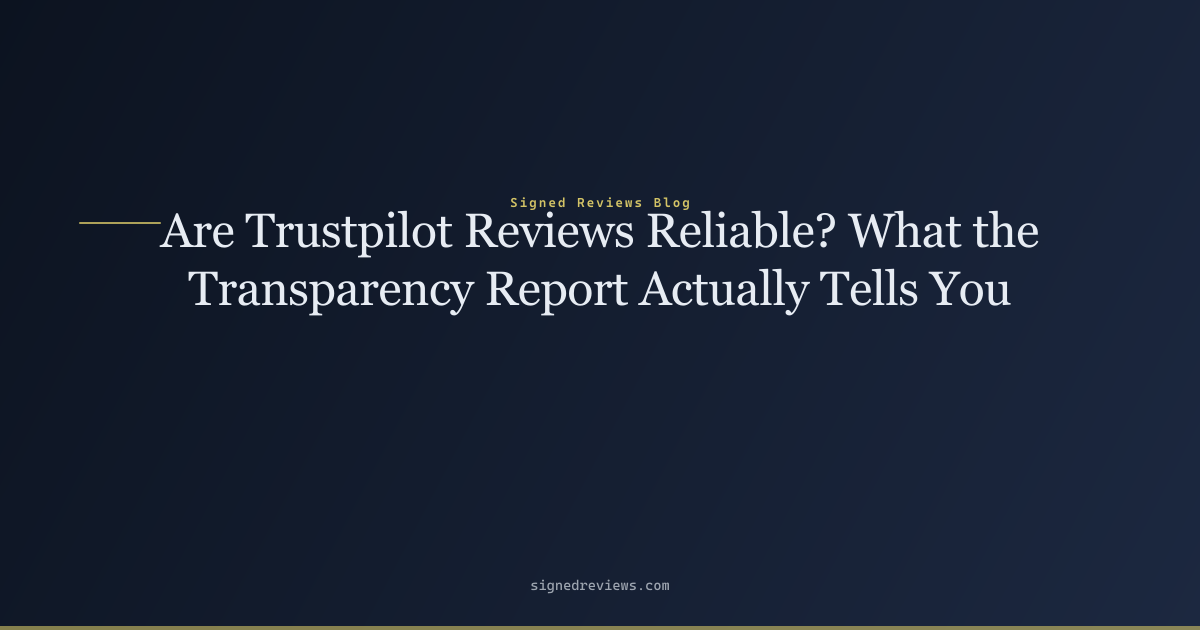
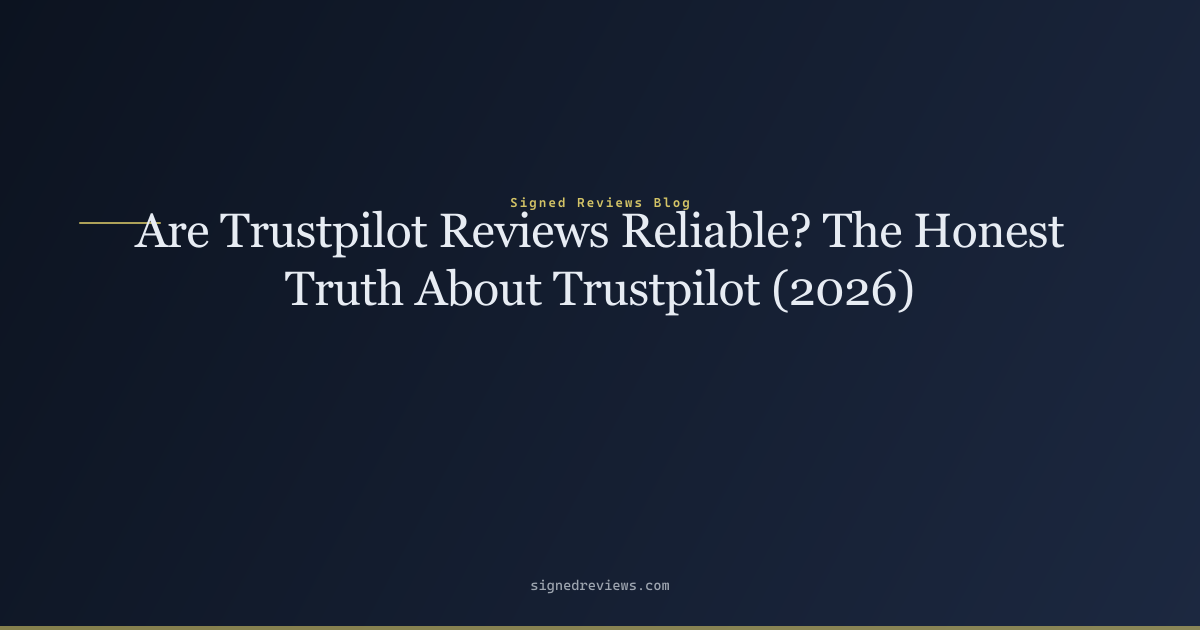
@ SEO: comprehensive rewrite targeting "are trustpilot reviews reliable" (720/mo)
- Title: exact keyword + "The Honest Truth About Trustpilot (2026)"
- Meta description: 150 chars, leads with keyword
- Answer-first intro: directly answers query in first two sentences
- Added H2: "What Reddit Users Say: Are Trustpilot Reviews Reliable?" (addresses Reddit competitor intent)
- Added H2: "Common Signs of Fake Trustpilot Reviews" (5 telltale patterns)
- Renamed H2s: "How Trustpilot Verifies Reviews (And Where It Falls Short)", "Trustpilot vs. Stripe-Verified Reviews"
- Added FAQ section with 5 Q&As + FAQPage JSON-LD schema
- Keyword appears in title, meta, H2, intro, signs section, Reddit section
- Internal links to /how-it-works/, /learn/, /blog/ related posts

@

Changed region(s): [[0.0925, 0.3317, 0.8942, 0.5127]]

diff --git a/blog/are-trustpilot-reviews-reliable/index.html b/blog/are-trustpilot-reviews-reliable/index.html
@@ -3,21 +3,21 @@
 <head>
   <meta charset="UTF-8">
   <meta name="viewport" content="width=device-width, initial-scale=1.0">
-  <title>Are Trustpilot Reviews Reliable? What the Transparency Report Actually Tells You — Signed Reviews Blog</title>
-  <meta name="description" content="An honest look at Trustpilot's reliability — what the Transparency Report data reveals, how the open-platform model creates fake-review exposure, and how to tel">
+  <title>Are Trustpilot Reviews Reliable? The Honest Truth About Trustpilot (2026) — Signed Reviews Blog</title>
+  <meta name="description" content="Are Trustpilot reviews reliable? We break down how Trustpilot verifies reviews, where fake reviews slip through, what Reddit users say, and a more trustworthy S">
   <link rel="canonical" href="https://signedreviews.com/blog/are-trustpilot-reviews-reliable/">
   <meta name="robots" content="index, follow">
   <meta name="theme-color" content="#0c1320">
 
   <meta property="og:type" content="article">
-  <meta property="og:title" content="Are Trustpilot Reviews Reliable? What the Transparency Report Actually Tells You — Signed Reviews Blog">
-  <meta property="og:description" content="An honest look at Trustpilot's reliability — what the Transparency Report data reveals, how the open-platform model creates fake-review exposure, and how to tel">
+  <meta property="og:title" content="Are Trustpilot Reviews Reliable? The Honest Truth About Trustpilot (2026) — Signed Reviews Blog">
+  <meta property="og:description" content="Are Trustpilot reviews reliable? We break down how Trustpilot verifies reviews, where fake reviews slip through, what Reddit users say, and a more trustworthy S">
   <meta property="og:url" content="https://signedreviews.com/blog/are-trustpilot-reviews-reliable/">
   <meta property="og:site_name" content="Signed Reviews">
   <meta property="og:image" content="https://signedreviews.com/images/og/are-trustpilot-reviews-reliable.png">
   <meta name="twitter:card" content="summary_large_image">
-  <meta name="twitter:title" content="Are Trustpilot Reviews Reliable? What the Transparency Report Actually Tells You — Signed Reviews Blog">
-  <meta name="twitter:description" content="An honest look at Trustpilot's reliability — what the Transparency Report data reveals, how the open-platform model creates fake-review exposure, and how to tel">
+  <meta name="twitter:title" content="Are Trustpilot Reviews Reliable? The Honest Truth About Trustpilot (2026) — Signed Reviews Blog">
+  <meta name="twitter:description" content="Are Trustpilot reviews reliable? We break down how Trustpilot verifies reviews, where fake reviews slip through, what Reddit users say, and a more trustworthy S">
   <meta name="twitter:image" content="https://signedreviews.com/images/og/are-trustpilot-reviews-reliable.png">
 
   <link rel="icon" type="image/png" sizes="32x32" href="/images/SignedReviews_logo_only.png?v=20260729a">
@@ -524,9 +524,9 @@ main { padding: 0; }
     })();
   </script>
   <script type="application/ld+json">{"@context":"https://schema.org","@type":"Organization","name":"Signed Reviews","legalName":"Paid Rightly LLC","url":"https://signedreviews.com","logo":"https://signedreviews.com/images/SignedReviews_logo_only.png","description":"Signed Reviews is a SaaS platform that helps businesses collect verified, tamper-evident customer reviews by linking each review to a completed Stripe transaction.","email":"support@signedreviews.com","address":{"@type":"PostalAddress","streetAddress":"1209 Mountain Road Pl NE, Ste N","addressLocality":"Albuquerque","addressRegion":"NM","postalCode":"87110","addressCountry":"US"}}</script>
-  <script type="application/ld+json">{"@context":"https://schema.org","@type":"BreadcrumbList","itemListElement":[{"@type":"ListItem","position":1,"name":"Home","item":"https://signedreviews.com/"},{"@type":"ListItem","position":2,"name":"Blog","item":"https://signedreviews.com/blog/"},{"@type":"ListItem","position":3,"name":"Are Trustpilot Reviews Reliable? What the Transparency Report Actually Tells You","item":"https://signedreviews.com/blog/are-trustpilot-reviews-reliable/"}]}</script>
+  <script type="application/ld+json">{"@context":"https://schema.org","@type":"BreadcrumbList","itemListElement":[{"@type":"ListItem","position":1,"name":"Home","item":"https://signedreviews.com/"},{"@type":"ListItem","position":2,"name":"Blog","item":"https://signedreviews.com/blog/"},{"@type":"ListItem","position":3,"name":"Are Trustpilot Reviews Reliable? The Honest Truth About Trustpilot (2026)","item":"https://signedreviews.com/blog/are-trustpilot-reviews-reliable/"}]}</script>
 
-  <script type="application/ld+json">{"@context":"https://schema.org","@type":"BlogPosting","headline":"Are Trustpilot Reviews Reliable? What the Transparency Report Actually Tells You","description":"An honest look at Trustpilot's reliability — what the Transparency Report data reveals, how the open-platform model creates fake-review exposure, and how to tel","datePublished":"2026-07-24","dateModified":"2026-07-24","mainEntityOfPage":{"@type":"WebPage","@id":"https://signedreviews.com/blog/are-trustpilot-reviews-reliable/"},"image":["https://signedreviews.com/images/og/are-trustpilot-reviews-reliable.png"],"author":{"@type":"Organization","name":"Signed Reviews","url":"https://signedreviews.com"},"publisher":{"@type":"Organization","name":"Signed Reviews","logo":{"@type":"ImageObject","url":"https://signedreviews.com/images/SignedReviews_logo_only.png"}}}</script>
+  <script type="application/ld+json">{"@context":"https://schema.org","@type":"BlogPosting","headline":"Are Trustpilot Reviews Reliable? The Honest Truth About Trustpilot (2026)","description":"Are Trustpilot reviews reliable? We break down how Trustpilot verifies reviews, where fake reviews slip through, what Reddit users say, and a more trustworthy S","datePublished":"2026-07-24","dateModified":"2026-07-24","mainEntityOfPage":{"@type":"WebPage","@id":"https://signedreviews.com/blog/are-trustpilot-reviews-reliable/"},"image":["https://signedreviews.com/images/og/are-trustpilot-reviews-reliable.png"],"author":{"@type":"Organization","name":"Signed Reviews","url":"https://signedreviews.com"},"publisher":{"@type":"Organization","name":"Signed Reviews","logo":{"@type":"ImageObject","url":"https://signedreviews.com/images/SignedReviews_logo_only.png"}}}</script>
 </head>
 <body>
   <a class="skip-link" href="#main">Skip to main content</a>
@@ -567,23 +567,23 @@ main { padding: 0; }
     <section class="page-hero">
       <div class="page-hero-inner">
         <span class="eyebrow">Blog</span>
-        <h1>Are Trustpilot Reviews Reliable? What the Transparency Report Actually Tells You</h1>
-        <p>An honest look at Trustpilot's reliability — what the Transparency Report data reveals, how the open-platform model creates fake-review exposure, and how to tel</p>
+        <h1>Are Trustpilot Reviews Reliable? The Honest Truth About Trustpilot (2026)</h1>
+        <p>Are Trustpilot reviews reliable? We break down how Trustpilot verifies reviews, where fake reviews slip through, what Reddit users say, and a more trustworthy S</p>
       </div>
     </section>
     <div class="prose-wrap">
       <article class="prose" style="max-width: var(--max-prose)">
       <p class="post-meta" style="color:var(--muted);font-size:.9rem;margin-bottom:1.5rem;">2026-07-24</p>
       
-<p><strong>Published:</strong> 2026-07-24 · <strong>Author:</strong> Signed Reviews Team · <strong>Description:</strong> An honest look at Trustpilot&#39;s reliability — what the Transparency Report data reveals, how the open-platform model creates fake-review exposure, and how to tell which reviews you can trust.**</p>
+<p><strong>Published:</strong> 2026-07-24 · <strong>Author:</strong> Signed Reviews Team · <strong>Description:</strong> Are Trustpilot reviews reliable? We break down how Trustpilot verifies reviews, where fake reviews slip through, what Reddit users say, and a more trustworthy Stripe-verified alternative.</p>
 <hr>
-<p>Trustpilot removed <strong>4.5 million fake reviews in 2024</strong> — 7.4% of all reviews submitted to the platform that year. That&#39;s the headline number from Trustpilot&#39;s own Transparency Report. It&#39;s both impressive and alarming: impressive that Trustpilot catches that many, alarming that the platform attracts that volume of fake content in the first place.</p>
-<p>This article answers the question honestly — not with marketing language, but by walking through how Trustpilot&#39;s verification model actually works, what the data shows, and where the risks sit.</p>
+<p>Are Trustpilot reviews reliable? The honest answer: <strong>Trustpilot reviews are moderately reliable in aggregate, but any individual review could be fake.</strong> The platform&#39;s &quot;Verified&quot; badge doesn&#39;t mean the reviewer purchased anything — it means the business sent them an invitation. And Trustpilot&#39;s own Transparency Report confirms the scale of the problem: <strong>4.5 million fake reviews removed in 2024</strong> — 7.4% of all submissions.</p>
+<p>That means roughly 1 in 13 reviews submitted to Trustpilot is fake. Here&#39;s exactly how Trustpilot&#39;s verification works, where fake reviews still slip through, what Reddit users say about the platform, and how Stripe-verified reviews offer a structurally different alternative.</p>
 <hr>
 <h2 id="the-short-answer"><a class="anchor" href="#the-short-answer" aria-label="Permalink to The short answer">#</a> The short answer</h2>
 <p>Trustpilot reviews are <strong>directionally useful but individually uncertain.</strong> The platform&#39;s scale (361 million reviews) means aggregate scores tend to be statistically meaningful for businesses with large review volumes. But the open-platform model — anyone can review any business without proving they purchased anything — means <strong>any individual review could be fake, and &quot;Verified&quot; doesn&#39;t independently confirm a payment happened.</strong></p>
 <hr>
-<h2 id="how-trustpilot39s-model-works-and-doesn39t"><a class="anchor" href="#how-trustpilot39s-model-works-and-doesn39t" aria-label="Permalink to How Trustpilot&amp;#39;s model works (and doesn&amp;#39;t)">#</a> How Trustpilot&#39;s model works (and doesn&#39;t)</h2>
+<h2 id="how-trustpilot-verifies-reviews-and-where-it-falls-short"><a class="anchor" href="#how-trustpilot-verifies-reviews-and-where-it-falls-short" aria-label="Permalink to How Trustpilot Verifies Reviews (And Where It Falls Short)">#</a> How Trustpilot Verifies Reviews (And Where It Falls Short)</h2>
 <p>Trustpilot is an <strong>open review platform.</strong> That means:</p>
 <ul>
 <li><strong>Anyone can review any business</strong> — no proof of purchase required.</li>
@@ -634,6 +634,28 @@ main { padding: 0; }
 <p>This gap — between what consumers think &quot;Verified&quot; means and what it actually means on Trustpilot — is the central reliability problem. It&#39;s not that Trustpilot is dishonest about its definitions (they publish them clearly). It&#39;s that <strong>the word &quot;Verified&quot; carries a payment-confirmation connotation that Trustpilot&#39;s definition doesn&#39;t fulfill.</strong></p>
 <p>For the full breakdown of what &quot;Verified&quot; means on every major platform: <a href="/learn/what-does-verified-buyer-mean/">What Does &quot;Verified Buyer&quot; Actually Mean?</a></p>
 <hr>
+<h2 id="common-signs-of-fake-trustpilot-reviews"><a class="anchor" href="#common-signs-of-fake-trustpilot-reviews" aria-label="Permalink to Common Signs of Fake Trustpilot Reviews">#</a> Common Signs of Fake Trustpilot Reviews</h2>
+<p>Not all fake reviews are obvious, but most share telltale patterns. When you&#39;re asking &quot;are Trustpilot reviews reliable&quot; for a specific business, here&#39;s what to look for:</p>
+<ul>
+<li><strong>Generic, copy-paste language.</strong> Fake reviews rarely mention specific products, interactions, or timeframes. &quot;Great service, highly recommend&quot; with no detail is a red flag — real customers talk about what they bought and how they used it.</li>
+<li><strong>Review velocity spikes.</strong> A business that suddenly gets 50 five-star reviews in a week after months of silence is either running a campaign or buying reviews. Trustpilot&#39;s automated systems flag these, but some get through.</li>
+<li><strong>Profile patterns.</strong> Click through to reviewer profiles. Accounts created the same day they left the review, with only one review ever posted, are suspicious. So are multiple reviewers with similar names or writing styles.</li>
+<li><strong>Overly defensive business responses.</strong> Genuine businesses respond to negative reviews with offers to make things right. Businesses buying fake positive reviews often respond to real negative ones with hostility — because the negative review threatens the artificial rating they&#39;ve constructed.</li>
+<li><strong>Suspicious star distribution.</strong> A natural review profile has a J-shaped curve — mostly 5s and 4s, some 1s, fewer 2s and 3s. A business with exclusively 5-star and 1-star reviews (and nothing in between) often has fake positives mixed with real complaints.</li>
+</ul>
+<p>These signs don&#39;t prove a review is fake, but they&#39;re strong indicators. <a href="/blog/how-to-spot-fake-reviews/">Read our full guide to spotting fake reviews →</a></p>
+<hr>
+<h2 id="what-reddit-users-say-are-trustpilot-reviews-reliable"><a class="anchor" href="#what-reddit-users-say-are-trustpilot-reviews-reliable" aria-label="Permalink to What Reddit Users Say: Are Trustpilot Reviews Reliable?">#</a> What Reddit Users Say: Are Trustpilot Reviews Reliable?</h2>
+<p>Reddit is one of the top destinations for people asking &quot;are Trustpilot reviews reliable?&quot; — and the answers are consistently skeptical. Across r/smallbusiness, r/ecommerce, r/shopify, and r/entrepreneur, the dominant sentiment is that Trustpilot&#39;s open model makes individual reviews hard to trust.</p>
+<p><strong>Common Reddit themes about Trustpilot reliability:</strong></p>
+<ul>
+<li><strong>&quot;Verified ≠ real purchase.&quot;</strong> This is the most recurring observation on Reddit. Users regularly point out that Trustpilot&#39;s &quot;Verified&quot; tag only means the business invited the reviewer — not that a transaction occurred. One widely upvoted comment in r/ecommerce: &quot;Trustpilot verified just means the company has your email address.&quot;</li>
+<li><strong>&quot;Businesses pay Trustpilot to manage reviews, so there&#39;s a conflict of interest.&quot;</strong> Reddit users frequently note that Trustpilot&#39;s paid plans let businesses flag, respond to, and influence the visibility of reviews. The business is Trustpilot&#39;s customer — not the reviewer.</li>
+<li><strong>&quot;Fake positive reviews are rampant.&quot;</strong> Users in r/smallbusiness and r/shopify regularly share stories of competitors being flooded with fake 5-star reviews, or discovering that their own negative reviews were suspiciously outnumbered by vague positives.</li>
+<li><strong>&quot;It&#39;s useful for patterns, not individual reviews.&quot;</strong> The most balanced Reddit takes acknowledge that Trustpilot&#39;s aggregate scores are useful for high-volume businesses, but warn against trusting any single review at face value.</li>
+</ul>
+<p>The Reddit consensus mirrors the data: Trustpilot is a directional signal, not a definitive one. If you&#39;re researching a business, read the mid-range reviews (3-star), cross-reference with Google Reviews, and never rely on Trustpilot alone.</p>
+<hr>
 <h2 id="what-trustpilot-does-well"><a class="anchor" href="#what-trustpilot-does-well" aria-label="Permalink to What Trustpilot does well">#</a> What Trustpilot does well</h2>
 <p>To be fair: Trustpilot invests heavily in fake-review detection. Their automated systems scan for patterns (review velocity spikes, IP clustering, text similarity), their Content Integrity team investigates flagged content, and their Transparency Report is more detailed than any competitor&#39;s equivalent. The platform also allows businesses to respond publicly to reviews and flag ones that violate guidelines.</p>
 <p>For large businesses with thousands of reviews, Trustpilot&#39;s aggregate scores are probably directionally accurate — the statistical weight of volume drowns out individual fakes. The problem is at the individual-review level and for small businesses, where a handful of fake reviews can swing a star rating dramatically.</p>
@@ -648,10 +670,71 @@ main { padding: 0; }
 <li><strong>Cross-reference.</strong> Look at Google Reviews, the Better Business Bureau, and industry-specific forums. No single platform tells the whole story.</li>
 </ol>
 <hr>
-<h2 id="the-safer-alternative-processor-attested-reviews"><a class="anchor" href="#the-safer-alternative-processor-attested-reviews" aria-label="Permalink to The safer alternative: processor-attested reviews">#</a> The safer alternative: processor-attested reviews</h2>
+<h2 id="trustpilot-vs-stripe-verified-reviews-the-safer-alternative"><a class="anchor" href="#trustpilot-vs-stripe-verified-reviews-the-safer-alternative" aria-label="Permalink to Trustpilot vs. Stripe-Verified Reviews: The Safer Alternative">#</a> Trustpilot vs. Stripe-Verified Reviews: The Safer Alternative</h2>
 <p>The reliability problem isn&#39;t unique to Trustpilot — it&#39;s inherent to <strong>any open platform where the reviewer doesn&#39;t have to prove a purchase.</strong> The only way to structurally guarantee that a review comes from a real customer is to verify against something the merchant cannot control: an independent payment processor.</p>
 <p><strong>Processor-attested verification</strong> (Level 4 on the <a href="/learn/what-does-verified-buyer-mean/">verification spectrum</a>) ties every review to a confirmed Stripe charge. The payment processor — a neutral third party — confirms the charge occurred and whether it was refunded. The merchant cannot game this without faking a real Stripe transaction, which costs real Stripe fees and risks account termination. And refunded charges automatically hide their associated reviews.</p>
 <p>This model doesn&#39;t eliminate the possibility of biased or inaccurate reviews — a real customer can still write something misleading. But it <strong>eliminates fake reviews from non-customers entirely,</strong> because there&#39;s no path to write a review without a confirmed payment.</p>
+<hr>
+<h2 id="frequently-asked-questions"><a class="anchor" href="#frequently-asked-questions" aria-label="Permalink to Frequently Asked Questions">#</a> Frequently Asked Questions</h2>
+<h3 id="can-companies-fake-trustpilot-reviews"><a class="anchor" href="#can-companies-fake-trustpilot-reviews" aria-label="Permalink to Can companies fake Trustpilot reviews?">#</a> Can companies fake Trustpilot reviews?</h3>
+<p>Yes. Because Trustpilot is an open platform, anyone can leave a review without proving they purchased anything. Businesses can (and do) pay for fake positive reviews, and competitors can leave fake negative reviews. Trustpilot&#39;s automated detection catches most — 4.5 million in 2024 — but some inevitably get through. The platform&#39;s &quot;Verified&quot; badge doesn&#39;t prevent fake reviews; it only indicates the business invited the reviewer via email.</p>
+<h3 id="does-trustpilot-remove-negative-reviews"><a class="anchor" href="#does-trustpilot-remove-negative-reviews" aria-label="Permalink to Does Trustpilot remove negative reviews?">#</a> Does Trustpilot remove negative reviews?</h3>
+<p>Trustpilot removes reviews that violate its content guidelines — including hate speech, conflicts of interest, and factually false claims — but it does <strong>not</strong> remove reviews simply because they&#39;re negative. Businesses on paid plans can flag reviews for Trustpilot to investigate, and they can respond publicly. However, businesses cannot unilaterally delete negative reviews from the platform. If a review is flagged and found to violate guidelines, Trustpilot removes it; otherwise it stays.</p>
+<h3 id="how-does-trustpilot-detect-fake-reviews"><a class="anchor" href="#how-does-trustpilot-detect-fake-reviews" aria-label="Permalink to How does Trustpilot detect fake reviews?">#</a> How does Trustpilot detect fake reviews?</h3>
+<p>Trustpilot uses a combination of automated systems and human review. The automated layer scans for patterns: review velocity spikes, IP address clustering (multiple reviews from the same location), text similarity across accounts, and reviewer account history. Reviews flagged by the system go to Trustpilot&#39;s Content Integrity team for investigation. In 2024, roughly 80% of fake reviews were caught by automated systems before publication.</p>
+<h3 id="is-trustpilot-better-than-google-reviews"><a class="anchor" href="#is-trustpilot-better-than-google-reviews" aria-label="Permalink to Is Trustpilot better than Google Reviews?">#</a> Is Trustpilot better than Google Reviews?</h3>
+<p>It depends on what you need. Google Reviews has wider reach and integrates with Google Maps and Search, making it more visible, but its verification is even weaker — Google requires no proof of purchase and has minimal fake-review detection. Trustpilot has stronger detection and more detailed review content, but its consumer reach is smaller. For businesses, the best strategy is to collect verified reviews (with actual purchase proof) that can be displayed across both platforms.</p>
+<h3 id="what39s-the-most-reliable-alternative-to-trustpilot"><a class="anchor" href="#what39s-the-most-reliable-alternative-to-trustpilot" aria-label="Permalink to What&amp;#39;s the most reliable alternative to Trustpilot?">#</a> What&#39;s the most reliable alternative to Trustpilot?</h3>
+<p>The most reliable alternative is a review platform that uses <strong>processor-attested verification</strong> — where an independent payment processor (like Stripe) confirms that a transaction actually occurred. Unlike Trustpilot&#39;s invited-review model, processor-attested reviews eliminate fake reviews structurally: no purchase, no invitation, no review. <a href="/how-it-works/">Signed Reviews connects to your Stripe account</a> with read-only OAuth and automatically verifies every review against a real charge. Refunded charges automatically hide their reviews. It&#39;s the difference between detecting fakes and making them impossible.</p>
+<script type="application/ld+json">
+{
+  "@context": "https://schema.org",
+  "@type": "FAQPage",
+  "mainEntity": [
+    {
+      "@type": "Question",
+      "name": "Can companies fake Trustpilot reviews?",
+      "acceptedAnswer": {
+        "@type": "Answer",
+        "text": "Yes. Because Trustpilot is an open platform, anyone can leave a review without proving they purchased anything. Businesses can pay for fake positive reviews, and competitors can leave fake negative reviews. Trustpilot's automated detection caught 4.5 million fake reviews in 2024, but some inevitably get through. The Verified badge only means the business invited the reviewer via email — not that a purchase occurred."
+      }
+    },
+    {
+      "@type": "Question",
+      "name": "Does Trustpilot remove negative reviews?",
+      "acceptedAnswer": {
+        "@type": "Answer",
+        "text": "Trustpilot removes reviews that violate its content guidelines (hate speech, conflicts of interest, false claims) but does not remove reviews simply because they are negative. Businesses on paid plans can flag reviews for investigation and respond publicly, but they cannot unilaterally delete negative reviews."
+      }
+    },
+    {
+      "@type": "Question",
+      "name": "How does Trustpilot detect fake reviews?",
+      "acceptedAnswer": {
+        "@type": "Answer",
+        "text": "Trustpilot uses automated systems and human review. The automated layer scans for review velocity spikes, IP clustering, text similarity, and reviewer account history. Flagged reviews go to the Content Integrity team. In 2024, about 80% of fake reviews were caught by automated systems before publication."
+      }
+    },
+    {
+      "@type": "Question",
+      "name": "Is Trustpilot better than Google Reviews?",
+      "acceptedAnswer": {
+        "@type": "Answer",
+        "text": "Google Reviews has wider reach via Maps and Search integration but weaker verification. Trustpilot has stronger fake-review detection and more detailed content but smaller consumer reach. The best approach for businesses is collecting verified reviews with purchase proof that display across both platforms."
+      }
+    },
+    {
+      "@type": "Question",
+      "name": "What is the most reliable alternative to Trustpilot?",
+      "acceptedAnswer": {
+        "@type": "Answer",
+        "text": "The most reliable alternative uses processor-attested verification — where a payment processor like Stripe independently confirms each transaction. Unlike Trustpilot's invited-review model, this eliminates fake reviews structurally: no purchase means no invitation and no review. Signed Reviews connects via read-only Stripe OAuth and verifies every review against a real charge, with automatic refund handling."
+      }
+    }
+  ]
+}
+</script>
+
 <hr>
 <h2 id="bottom-line"><a class="anchor" href="#bottom-line" aria-label="Permalink to Bottom line">#</a> Bottom line</h2>
 <p>Trustpilot reviews are reliable enough for aggregate trending — a business with 5,000 reviews and a 4.5 average is probably decent. But at the individual level, &quot;Verified&quot; on Trustpilot doesn&#39;t mean what most people think it means, and the platform&#39;s 7.4% fake-submission rate means roughly 1 in 13 submissions isn&#39;t from a real customer.</p>

diff --git a/blog/index.html b/blog/index.html
@@ -694,9 +694,9 @@ main { padding: 0; }
       <p style="margin:0;color:var(--text);font-size:.95rem;">The best review platforms for SaaS companies in 2026, ranked by verification method — not just features. Most &quot;best review platform&quot; lists rank aggregators, not</p>
     </div>
     <div style="margin-bottom:1.5rem;padding-bottom:1.5rem;border-bottom:1px solid var(--border);">
-      <h2 style="margin:0 0 .3rem;font-size:1.25rem;"><a href="/blog/are-trustpilot-reviews-reliable/" style="text-decoration:none;">Are Trustpilot Reviews Reliable? What the Transparency Report Actually Tells You</a></h2>
+      <h2 style="margin:0 0 .3rem;font-size:1.25rem;"><a href="/blog/are-trustpilot-reviews-reliable/" style="text-decoration:none;">Are Trustpilot Reviews Reliable? The Honest Truth About Trustpilot (2026)</a></h2>
       <p class="post-meta" style="color:var(--muted);font-size:.85rem;margin:0 0 .4rem;">2026-07-24</p>
-      <p style="margin:0;color:var(--text);font-size:.95rem;">An honest look at Trustpilot's reliability — what the Transparency Report data reveals, how the open-platform model creates fake-review exposure, and how to tel</p>
+      <p style="margin:0;color:var(--text);font-size:.95rem;">Are Trustpilot reviews reliable? We break down how Trustpilot verifies reviews, where fake reviews slip through, what Reddit users say, and a more trustworthy S</p>
     </div>
   </article>
     </div>

diff --git a/files/blog/are-trustpilot-reviews-reliable.md b/files/blog/are-trustpilot-reviews-reliable.md
@@ -1,12 +1,12 @@
-# Are Trustpilot Reviews Reliable? What the Transparency Report Actually Tells You
+# Are Trustpilot Reviews Reliable? The Honest Truth About Trustpilot (2026)
 
-**Published:** 2026-07-24 · **Author:** Signed Reviews Team · **Description:** An honest look at Trustpilot's reliability — what the Transparency Report data reveals, how the open-platform model creates fake-review exposure, and how to tell which reviews you can trust.**
+**Published:** 2026-07-24 · **Author:** Signed Reviews Team · **Description:** Are Trustpilot reviews reliable? We break down how Trustpilot verifies reviews, where fake reviews slip through, what Reddit users say, and a more trustworthy Stripe-verified alternative.
 
 ---
 
-Trustpilot removed **4.5 million fake reviews in 2024** — 7.4% of all reviews submitted to the platform that year. That's the headline number from Trustpilot's own Transparency Report. It's both impressive and alarming: impressive that Trustpilot catches that many, alarming that the platform attracts that volume of fake content in the first place.
+Are Trustpilot reviews reliable? The honest answer: **Trustpilot reviews are moderately reliable in aggregate, but any individual review could be fake.** The platform's "Verified" badge doesn't mean the reviewer purchased anything — it means the business sent them an invitation. And Trustpilot's own Transparency Report confirms the scale of the problem: **4.5 million fake reviews removed in 2024** — 7.4% of all submissions.
 
-This article answers the question honestly — not with marketing language, but by walking through how Trustpilot's verification model actually works, what the data shows, and where the risks sit.
+That means roughly 1 in 13 reviews submitted to Trustpilot is fake. Here's exactly how Trustpilot's verification works, where fake reviews still slip through, what Reddit users say about the platform, and how Stripe-verified reviews offer a structurally different alternative.
 
 ---
 
@@ -16,7 +16,7 @@ Trustpilot reviews are **directionally useful but individually uncertain.** The 
 
 ---
 
-## How Trustpilot's model works (and doesn't)
+## How Trustpilot Verifies Reviews (And Where It Falls Short)
 
 Trustpilot is an **open review platform.** That means:
 
@@ -56,6 +56,35 @@ For the full breakdown of what "Verified" means on every major platform: [What D
 
 ---
 
+## Common Signs of Fake Trustpilot Reviews
+
+Not all fake reviews are obvious, but most share telltale patterns. When you're asking "are Trustpilot reviews reliable" for a specific business, here's what to look for:
+
+- **Generic, copy-paste language.** Fake reviews rarely mention specific products, interactions, or timeframes. "Great service, highly recommend" with no detail is a red flag — real customers talk about what they bought and how they used it.
+- **Review velocity spikes.** A business that suddenly gets 50 five-star reviews in a week after months of silence is either running a campaign or buying reviews. Trustpilot's automated systems flag these, but some get through.
+- **Profile patterns.** Click through to reviewer profiles. Accounts created the same day they left the review, with only one review ever posted, are suspicious. So are multiple reviewers with similar names or writing styles.
+- **Overly defensive business responses.** Genuine businesses respond to negative reviews with offers to make things right. Businesses buying fake positive reviews often respond to real negative ones with hostility — because the negative review threatens the artificial rating they've constructed.
+- **Suspicious star distribution.** A natural review profile has a J-shaped curve — mostly 5s and 4s, some 1s, fewer 2s and 3s. A business with exclusively 5-star and 1-star reviews (and nothing in between) often has fake positives mixed with real complaints.
+
+These signs don't prove a review is fake, but they're strong indicators. [Read our full guide to spotting fake reviews →](/blog/how-to-spot-fake-reviews/)
+
+---
+
+## What Reddit Users Say: Are Trustpilot Reviews Reliable?
+
+Reddit is one of the top destinations for people asking "are Trustpilot reviews reliable?" — and the answers are consistently skeptical. Across r/smallbusiness, r/ecommerce, r/shopify, and r/entrepreneur, the dominant sentiment is that Trustpilot's open model makes individual reviews hard to trust.
+
+**Common Reddit themes about Trustpilot reliability:**
+
+- **"Verified ≠ real purchase."** This is the most recurring observation on Reddit. Users regularly point out that Trustpilot's "Verified" tag only means the business invited the reviewer — not that a transaction occurred. One widely upvoted comment in r/ecommerce: "Trustpilot verified just means the company has your email address."
+- **"Businesses pay Trustpilot to manage reviews, so there's a conflict of interest."** Reddit users frequently note that Trustpilot's paid plans let businesses flag, respond to, and influence the visibility of reviews. The business is Trustpilot's customer — not the reviewer.
+- **"Fake positive reviews are rampant."** Users in r/smallbusiness and r/shopify regularly share stories of competitors being flooded with fake 5-star reviews, or discovering that their own negative reviews were suspiciously outnumbered by vague positives.
+- **"It's useful for patterns, not individual reviews."** The most balanced Reddit takes acknowledge that Trustpilot's aggregate scores are useful for high-volume businesses, but warn against trusting any single review at face value.
+
+The Reddit consensus mirrors the data: Trustpilot is a directional signal, not a definitive one. If you're researching a business, read the mid-range reviews (3-star), cross-reference with Google Reviews, and never rely on Trustpilot alone.
+
+---
+
 ## What Trustpilot does well
 
 To be fair: Trustpilot invests heavily in fake-review detection. Their automated systems scan for patterns (review velocity spikes, IP clustering, text similarity), their Content Integrity team investigates flagged content, and their Transparency Report is more detailed than any competitor's equivalent. The platform also allows businesses to respond publicly to reviews and flag ones that violate guidelines.
@@ -76,13 +105,86 @@ When you're reading Trustpilot reviews as a consumer, here's a practical checkli
 
 ---
 
-## The safer alternative: processor-attested reviews
+## Trustpilot vs. Stripe-Verified Reviews: The Safer Alternative
 
 The reliability problem isn't unique to Trustpilot — it's inherent to **any open platform where the reviewer doesn't have to prove a purchase.** The only way to structurally guarantee that a review comes from a real customer is to verify against something the merchant cannot control: an independent payment processor.
 
 **Processor-attested verification** (Level 4 on the [verification spectrum](/learn/what-does-verified-buyer-mean/)) ties every review to a confirmed Stripe charge. The payment processor — a neutral third party — confirms the charge occurred and whether it was refunded. The merchant cannot game this without faking a real Stripe transaction, which costs real Stripe fees and risks account termination. And refunded charges automatically hide their associated reviews.
 
 This model doesn't eliminate the possibility of biased or inaccurate reviews — a real customer can still write something misleading. But it **eliminates fake reviews from non-customers entirely,** because there's no path to write a review without a confirmed payment.
+
+---
+
+## Frequently Asked Questions
+
+### Can companies fake Trustpilot reviews?
+
+Yes. Because Trustpilot is an open platform, anyone can leave a review without proving they purchased anything. Businesses can (and do) pay for fake positive reviews, and competitors can leave fake negative reviews. Trustpilot's automated detection catches most — 4.5 million in 2024 — but some inevitably get through. The platform's "Verified" badge doesn't prevent fake reviews; it only indicates the business invited the reviewer via email.
+
+### Does Trustpilot remove negative reviews?
+
+Trustpilot removes reviews that violate its content guidelines — including hate speech, conflicts of interest, and factually false claims — but it does **not** remove reviews simply because they're negative. Businesses on paid plans can flag reviews for Trustpilot to investigate, and they can respond publicly. However, businesses cannot unilaterally delete negative reviews from the platform. If a review is flagged and found to violate guidelines, Trustpilot removes it; otherwise it stays.
+
+### How does Trustpilot detect fake reviews?
+
+Trustpilot uses a combination of automated systems and human review. The automated layer scans for patterns: review velocity spikes, IP address clustering (multiple reviews from the same location), text similarity across accounts, and reviewer account history. Reviews flagged by the system go to Trustpilot's Content Integrity team for investigation. In 2024, roughly 80% of fake reviews were caught by automated systems before publication.
+
+### Is Trustpilot better than Google Reviews?
+
+It depends on what you need. Google Reviews has wider reach and integrates with Google Maps and Search, making it more visible, but its verification is even weaker — Google requires no proof of purchase and has minimal fake-review detection. Trustpilot has stronger detection and more detailed review content, but its consumer reach is smaller. For businesses, the best strategy is to collect verified reviews (with actual purchase proof) that can be displayed across both platforms.
+
+### What's the most reliable alternative to Trustpilot?
+
+The most reliable alternative is a review platform that uses **processor-attested verification** — where an independent payment processor (like Stripe) confirms that a transaction actually occurred. Unlike Trustpilot's invited-review model, processor-attested reviews eliminate fake reviews structurally: no purchase, no invitation, no review. <a href="/how-it-works/">Signed Reviews connects to your Stripe account</a> with read-only OAuth and automatically verifies every review against a real charge. Refunded charges automatically hide their reviews. It's the difference between detecting fakes and making them impossible.
+
+<script type="application/ld+json">
+{
+  "@context": "https://schema.org",
+  "@type": "FAQPage",
+  "mainEntity": [
+    {
+      "@type": "Question",
+      "name": "Can companies fake Trustpilot reviews?",
+      "acceptedAnswer": {
+        "@type": "Answer",
+        "text": "Yes. Because Trustpilot is an open platform, anyone can leave a review without proving they purchased anything. Businesses can pay for fake positive reviews, and competitors can leave fake negative reviews. Trustpilot's automated detection caught 4.5 million fake reviews in 2024, but some inevitably get through. The Verified badge only means the business invited the reviewer via email — not that a purchase occurred."
+      }
+    },
+    {
+      "@type": "Question",
+      "name": "Does Trustpilot remove negative reviews?",
+      "acceptedAnswer": {
+        "@type": "Answer",
+        "text": "Trustpilot removes reviews that violate its content guidelines (hate speech, conflicts of interest, false claims) but does not remove reviews simply because they are negative. Businesses on paid plans can flag reviews for investigation and respond publicly, but they cannot unilaterally delete negative reviews."
+      }
+    },
+    {
+      "@type": "Question",
+      "name": "How does Trustpilot detect fake reviews?",
+      "acceptedAnswer": {
+        "@type": "Answer",
+        "text": "Trustpilot uses automated systems and human review. The automated layer scans for review velocity spikes, IP clustering, text similarity, and reviewer account history. Flagged reviews go to the Content Integrity team. In 2024, about 80% of fake reviews were caught by automated systems before publication."
+      }
+    },
+    {
+      "@type": "Question",
+      "name": "Is Trustpilot better than Google Reviews?",
+      "acceptedAnswer": {
+        "@type": "Answer",
+        "text": "Google Reviews has wider reach via Maps and Search integration but weaker verification. Trustpilot has stronger fake-review detection and more detailed content but smaller consumer reach. The best approach for businesses is collecting verified reviews with purchase proof that display across both platforms."
+      }
+    },
+    {
+      "@type": "Question",
+      "name": "What is the most reliable alternative to Trustpilot?",
+      "acceptedAnswer": {
+        "@type": "Answer",
+        "text": "The most reliable alternative uses processor-attested verification — where a payment processor like Stripe independently confirms each transaction. Unlike Trustpilot's invited-review model, this eliminates fake reviews structurally: no purchase means no invitation and no review. Signed Reviews connects via read-only Stripe OAuth and verifies every review against a real charge, with automatic refund handling."
+      }
+    }
+  ]
+}
+</script>
 
 ---
 
